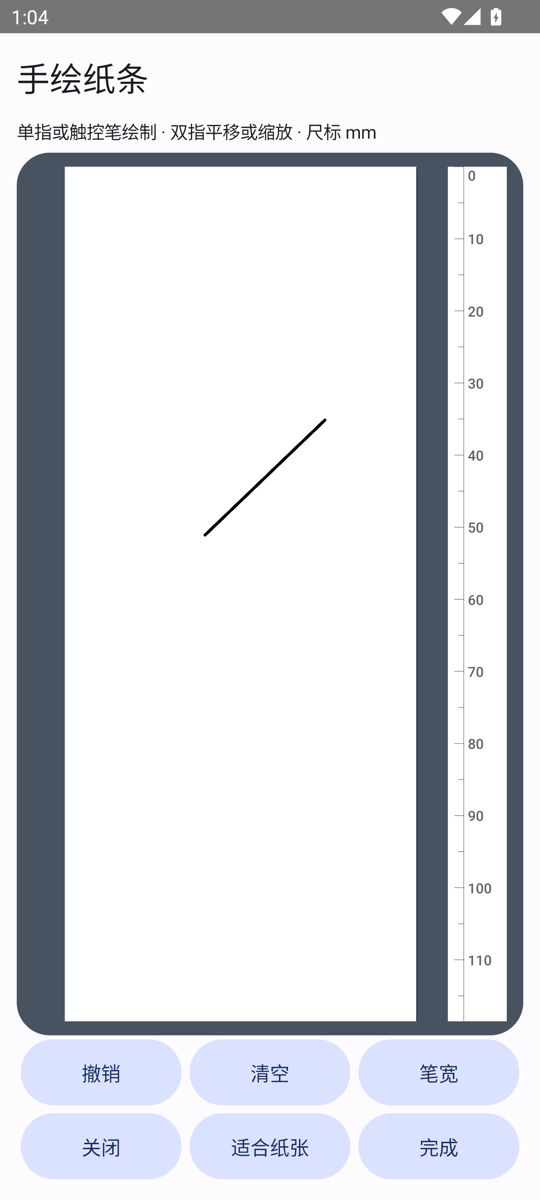
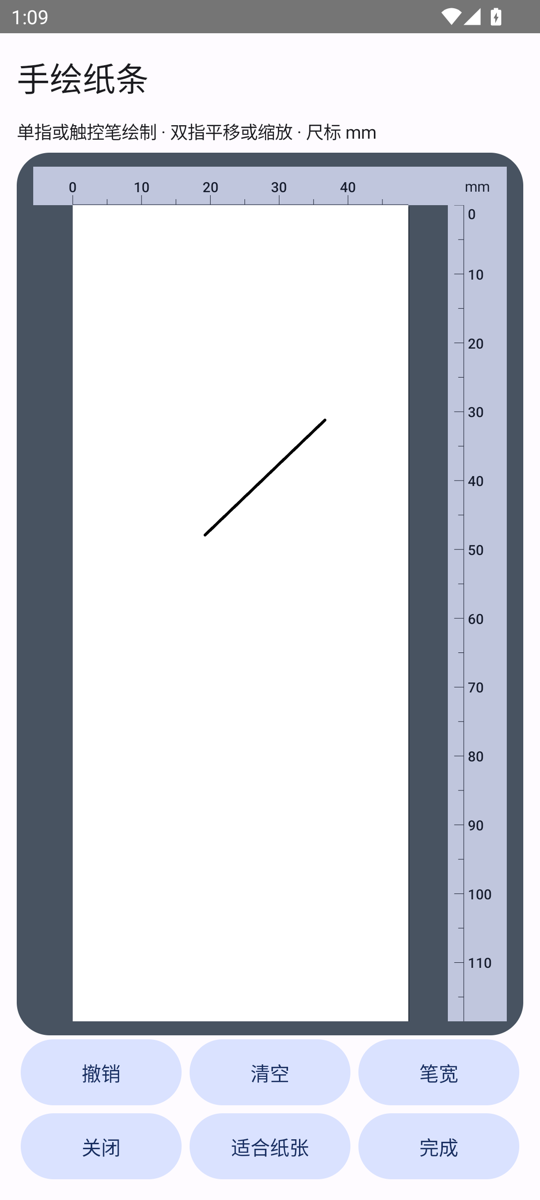
Add a contrasting width ruler to full-screen drawing

Changed region(s): [[0.0593, 0.1233, 0.9481, 0.8633], [0.0593, 0.0, 0.0889, 0.0308]]

diff --git a/Android/src/com/elt/pprstudio/adc/DrawingEditor.java b/Android/src/com/elt/pprstudio/adc/DrawingEditor.java
@@ -70,6 +70,9 @@ final class DrawingEditor {
         private final Paint edge = new Paint(Paint.ANTI_ALIAS_FLAG);
         private final PaperRuler ruler;
         private final int gutter;
+        private final int rulerHeight;
+        private final Paint rulerSurface = new Paint();
+        private final int rulerInk;
         private PaperGesture gesture;
         private float zoom = 1, offsetX, offsetY;
         private boolean navigating;
@@ -82,9 +85,12 @@ final class DrawingEditor {
 
         Pad(MainActivity app) {
             super(app);
-            setContentDescription("手绘画布，右侧毫米尺标");
+            setContentDescription("手绘画布，顶部宽度和右侧长度毫米尺标");
             ruler = new PaperRuler(app);
             gutter = app.dp(43);
+            rulerHeight = app.dp(28);
+            rulerSurface.setColor(app.getColor(android.R.color.system_accent2_200));
+            rulerInk = app.getColor(android.R.color.system_accent2_900);
             surface.setColor(Color.WHITE);
             edge.setColor(0xff26303b);
             pen.setColor(Color.BLACK);
@@ -94,16 +100,18 @@ final class DrawingEditor {
 
         private float viewportWidth() { return Math.max(0, getWidth() - gutter); }
 
+        private float viewportHeight() { return Math.max(0, getHeight() - rulerHeight); }
+
         private float scale() {
-            return zoom * Math.min(viewportWidth() / Raster.WIDTH, getHeight() / (float) Raster.MAX_HEIGHT);
+            return zoom * Math.min(viewportWidth() / Raster.WIDTH, viewportHeight() / Raster.MAX_HEIGHT);
         }
 
         private float left() { return (viewportWidth() - Raster.WIDTH * scale()) / 2 + offsetX; }
-        private float top() { return (getHeight() - Raster.MAX_HEIGHT * scale()) / 2 + offsetY; }
+        private float top() { return rulerHeight + (viewportHeight() - Raster.MAX_HEIGHT * scale()) / 2 + offsetY; }
 
         private void constrainViewport() {
             float x = Math.max(0, (Raster.WIDTH * scale() - viewportWidth()) / 2);
-            float y = Math.max(0, (Raster.MAX_HEIGHT * scale() - getHeight()) / 2);
+            float y = Math.max(0, (Raster.MAX_HEIGHT * scale() - viewportHeight()) / 2);
             offsetX = PaperPlacement.clamp(offsetX, -x, x);
             offsetY = PaperPlacement.clamp(offsetY, -y, y);
         }
@@ -121,7 +129,7 @@ final class DrawingEditor {
         @Override protected void onDraw(Canvas canvas) {
             if (scale() <= 0) return;
             canvas.save();
-            canvas.clipRect(0, 0, viewportWidth(), getHeight());
+            canvas.clipRect(0, rulerHeight, viewportWidth(), getHeight());
             canvas.translate(left(), top());
             canvas.drawRect(2, 3, Raster.WIDTH * scale() + 2, Raster.MAX_HEIGHT * scale() + 3, edge);
             canvas.scale(scale(), scale());
@@ -129,9 +137,23 @@ final class DrawingEditor {
             canvas.drawRect(0, 0, Raster.WIDTH, Raster.MAX_HEIGHT, surface);
             drawInk(canvas);
             canvas.restore();
-            canvas.drawRect(viewportWidth(), 0, getWidth(), getHeight(), surface);
-            ruler.draw(canvas, viewportWidth() + gutter * .27f, top(), scale(), Raster.MAX_HEIGHT,
-                    getHeight(), 0);
+            canvas.drawRect(0, 0, getWidth(), rulerHeight, rulerSurface);
+            canvas.drawRect(viewportWidth(), rulerHeight, getWidth(), getHeight(), rulerSurface);
+            canvas.save();
+            canvas.clipRect(0, 0, viewportWidth(), rulerHeight);
+            ruler.drawWidth(canvas, left(), scale(), viewportWidth(), rulerHeight - 1, rulerInk);
+            canvas.restore();
+            canvas.save();
+            canvas.clipRect(viewportWidth(), rulerHeight, getWidth(), getHeight());
+            canvas.translate(0, rulerHeight);
+            ruler.draw(canvas, viewportWidth() + gutter * .27f, top() - rulerHeight, scale(), Raster.MAX_HEIGHT,
+                    getHeight() - rulerHeight, 0, rulerInk);
+            canvas.restore();
+            edge.setColor(rulerInk);
+            edge.setTextSize(rulerHeight * .38f);
+            edge.setTextAlign(Paint.Align.CENTER);
+            canvas.drawText("mm", viewportWidth() + gutter / 2f, rulerHeight * .65f, edge);
+            edge.setColor(0xff26303b);
         }
 
         private void drawInk(Canvas canvas) {
@@ -153,7 +175,7 @@ final class DrawingEditor {
             if (scale() <= 0) return false;
             int action = event.getActionMasked();
             if (action == MotionEvent.ACTION_DOWN) {
-                if (event.getX() >= viewportWidth()) return false;
+                if (event.getX() >= viewportWidth() || event.getY() < rulerHeight) return false;
                 navigating = false;
                 gesture = null;
             } else if (action == MotionEvent.ACTION_POINTER_DOWN) {

diff --git a/Android/src/com/elt/pprstudio/adc/PaperRuler.java b/Android/src/com/elt/pprstudio/adc/PaperRuler.java
@@ -17,9 +17,14 @@ final class PaperRuler {
     }
 
     void draw(Canvas canvas, float x, float top, float scale, int rows, int height, int printedRows) {
+        draw(canvas, x, top, scale, rows, height, printedRows,
+                app.getColor(android.R.color.system_neutral2_600));
+    }
+
+    void draw(Canvas canvas, float x, float top, float scale, int rows, int height, int printedRows, int color) {
         if (scale <= 0 || rows <= 0) return;
         float bottom = top + rows * scale;
-        paint.setColor(app.getColor(android.R.color.system_neutral2_600));
+        paint.setColor(color);
         canvas.drawLine(x, Math.max(0, top), x, Math.min(height, bottom), paint);
         int step = DOTS_PER_MM * scale >= app.dp(6) ? 1 : DOTS_PER_MM * scale >= app.dp(2) ? 5 : 10;
         int labelStep = Math.max(step, DOTS_PER_MM * scale * 10 >= app.dp(16) ? 10 : 20);
@@ -40,4 +45,24 @@ final class PaperRuler {
             }
         }
     }
+    void drawWidth(Canvas canvas, float left, float scale, float width, float baseline, int color) {
+        if (scale <= 0) return;
+        paint.setColor(color);
+        canvas.drawLine(Math.max(0, left), baseline, Math.min(width, left + Raster.WIDTH * scale), baseline, paint);
+        float mmPixels = DOTS_PER_MM * scale;
+        int step = mmPixels >= app.dp(6) ? 1 : mmPixels >= app.dp(2) ? 5 : 10;
+        int labelStep = mmPixels * 10 >= app.dp(22) ? 10 : 20;
+        for (int mm = 0; mm * DOTS_PER_MM <= Raster.WIDTH; mm += step) {
+            float x = left + mm * mmPixels;
+            if (x < 0 || x > width) continue;
+            boolean label = mm % labelStep == 0;
+            canvas.drawLine(x, baseline - app.dp(label ? 7 : 4), x, baseline, paint);
+            if (label) {
+                String number = Integer.toString(mm);
+                float textX = PaperPlacement.clamp(x - paint.measureText(number) / 2, 0, width - paint.measureText(number));
+                canvas.drawText(number, textX, baseline - app.dp(9), paint);
+            }
+        }
+    }
+
 }

diff --git a/Android/README.md b/Android/README.md
@@ -45,7 +45,7 @@ adb install -r Android/build/PaperangStudio-Android-debug.apk
 
 ## 手绘与本地素材
 
-在工作台进入「手绘 → 全屏绘制」。可用单指或触控笔画线，切换笔宽，逐笔撤销或清空。右侧毫米尺标随纸面移动，双指同向拖动可平移，捏合可围绕两指中心缩放。点按「适合纸张」可恢复整张视图。点按「完成」回到工作台，继续绘制、打印预览、插入当前排版或导出 raster1 JSON。点按「存为素材」可命名并保留到本地素材库。
+在工作台进入「手绘 → 全屏绘制」。可用单指或触控笔画线，切换笔宽，逐笔撤销或清空。顶部宽度尺与右侧长度尺采用独立的 Material 强调色底板，毫米刻度随纸面移动和缩放，双指同向拖动可平移，捏合可围绕两指中心缩放。点按「适合纸张」可恢复整张视图。点按「完成」回到工作台，继续绘制、打印预览、插入当前排版或导出 raster1 JSON。点按「存为素材」可命名并保留到本地素材库。
 
 在其他纸条的「排版 → 添加对象 → 本地手绘素材」选择「使用素材」，可将手绘作为透明背景图片图层插入，并调整坐标、尺寸与层级。底部「素材」汇总所有手动保存的素材，可查看、插入排版、导出和删除。
 

diff --git a/doc/FEATURE-MATRIX.md b/doc/FEATURE-MATRIX.md
@@ -10,7 +10,7 @@ The `0.3.x` compatibility baseline uses Relay HTTP API v2, Mac Local HTTP API v2
 |---|---|---|
 | MacClient | `0.3.3-macclient`, build 3301 | arm64 build/signing, 47 local HTTP checks, RAW/raster1 byte checks and QR decoding. Physical printing evidence is from v0.3.2. [Release notes](RELEASE-v0.3.3-macclient.md) · [v0.3.2 validation](VALIDATION-v0.3.2-macos.md) |
 | WinLite | `0.3.3-winlite`, assembly 0.3.3.0 | Local x64 build, 73 regressions, 12 isolated Relay checks and P2 USB/BLE transport checks. Installed upgrade evidence is from v0.3.2. [Current validation](VALIDATION-v0.3.3-windows.md) · [v0.3.2 validation](VALIDATION-v0.3.2-windows.md) |
-| AndroidClient | `0.3.3-androidclient`, versionCode 8 | Signed APK, Android 13 emulator and local protocol/rendering checks. Physical P2 printing awaits hardware validation. [Release notes](RELEASE-v0.3.3-androidclient.md) |
+| AndroidClient | `0.3.3-androidclient`, versionCode 9 | Signed APK, Android 13 emulator and local protocol/rendering checks. Physical P2 printing awaits hardware validation. [Release notes](RELEASE-v0.3.3-androidclient.md) |
 | LinuxRelayServer | `0.3.2-linuxrelayserver` | Ubuntu deployment, preserving upgrade/rollback, HTTPS/API v2 and Mac receiver acceptance. [Ubuntu validation](VALIDATION-v0.3.2-ubuntu.md) |
 | WinClient / LinuxClient | Planned | — |
 

diff --git a/doc/VERSIONING.md b/doc/VERSIONING.md
@@ -27,7 +27,7 @@ Distributions preserve shared contracts within a release series. A later generat
 
 ## Distribution versions and builds
 
-Use `vMAJOR.MINOR.PATCH-distribution[-note]`, for example `v0.3.3-androidclient`. Runtime identifiers may omit the leading `v`. Patch numbers and build metadata are distribution-specific. MacClient uses bundle build `3301`, AndroidClient uses `versionCode 8`, and WinLite uses assembly version `0.3.3.0`. Installers and update checks use their platform metadata. Interoperability uses explicit API versions, schemas and capabilities.
+Use `vMAJOR.MINOR.PATCH-distribution[-note]`, for example `v0.3.3-androidclient`. Runtime identifiers may omit the leading `v`. Patch numbers and build metadata are distribution-specific. MacClient uses bundle build `3301`, AndroidClient uses `versionCode 9`, and WinLite uses assembly version `0.3.3.0`. Installers and update checks use their platform metadata. Interoperability uses explicit API versions, schemas and capabilities.
 
 Optional suffixes include `fixN`, `optN`, `alphaN`, `betaN` and `rcN`. Preserve published tags and artifact names. For a distribution update, revise its version source, registry, changelog and feature matrix, then run `python3 scripts/check-versions.py` and the relevant local platform checks.
 

diff --git a/doc/FEATURE-MATRIX.zh-CN.md b/doc/FEATURE-MATRIX.zh-CN.md
@@ -10,7 +10,7 @@
 |---|---|---|
 | MacClient | `0.3.3-macclient`，构建号 3301 | arm64 构建与签名、47 项本机 HTTP 检查、RAW/raster1 字节检查和二维码解码。实体打印记录对应 v0.3.2。[发行说明](RELEASE-v0.3.3-macclient.zh-CN.md) · [v0.3.2 验收](VALIDATION-v0.3.2-macos.md) |
 | WinLite | `0.3.3-winlite`，程序集版本 0.3.3.0 | 本机 x64 构建、73 项回归、12 项隔离 Relay 检查及 P2 USB/BLE 传输检查。安装覆盖升级记录对应 v0.3.2。[当前验收](VALIDATION-v0.3.3-windows.zh-CN.md) · [v0.3.2 验收](VALIDATION-v0.3.2-windows.md) |
-| AndroidClient | `0.3.3-androidclient`，versionCode 8 | 签名 APK、Android 13 模拟器与本地协议和渲染检查。P2 实体打印待实机验收。[发行说明](RELEASE-v0.3.3-androidclient.md) |
+| AndroidClient | `0.3.3-androidclient`，versionCode 9 | 签名 APK、Android 13 模拟器与本地协议和渲染检查。P2 实体打印待实机验收。[发行说明](RELEASE-v0.3.3-androidclient.md) |
 | LinuxRelayServer | `0.3.2-linuxrelayserver` | Ubuntu 部署、保留数据的升级与回滚、HTTPS/API v2、Mac 接收端联调。[Ubuntu 验收](VALIDATION-v0.3.2-ubuntu.md) |
 | WinClient / LinuxClient | 规划中 | — |
 

diff --git a/doc/RELEASE-v0.3.3-androidclient.md b/doc/RELEASE-v0.3.3-androidclient.md
@@ -16,7 +16,7 @@ AndroidClient 是 Paperang Studio 的 Android 本地 P2 打印分发，使用现
 
 ## 编辑器纸长尺标
 
-文字、图片、高级排版和全屏手绘均提供毫米尺标，以 300 DPI 换算实际渲染行数。排版尺标跟随画布平移与缩放，标记最终位图的末行。双指同向拖动平移纸面，改变指距围绕两指中心缩放。
+文字、图片、高级排版和全屏手绘均提供毫米尺标，以 300 DPI 换算实际渲染行数。全屏手绘提供顶部宽度尺和右侧长度尺，以独立的强调色底板标明毫米单位。排版尺标跟随画布平移与缩放，标记最终位图的末行。双指同向拖动平移纸面，改变指距围绕两指中心缩放。
 
 ## 验证范围
 
